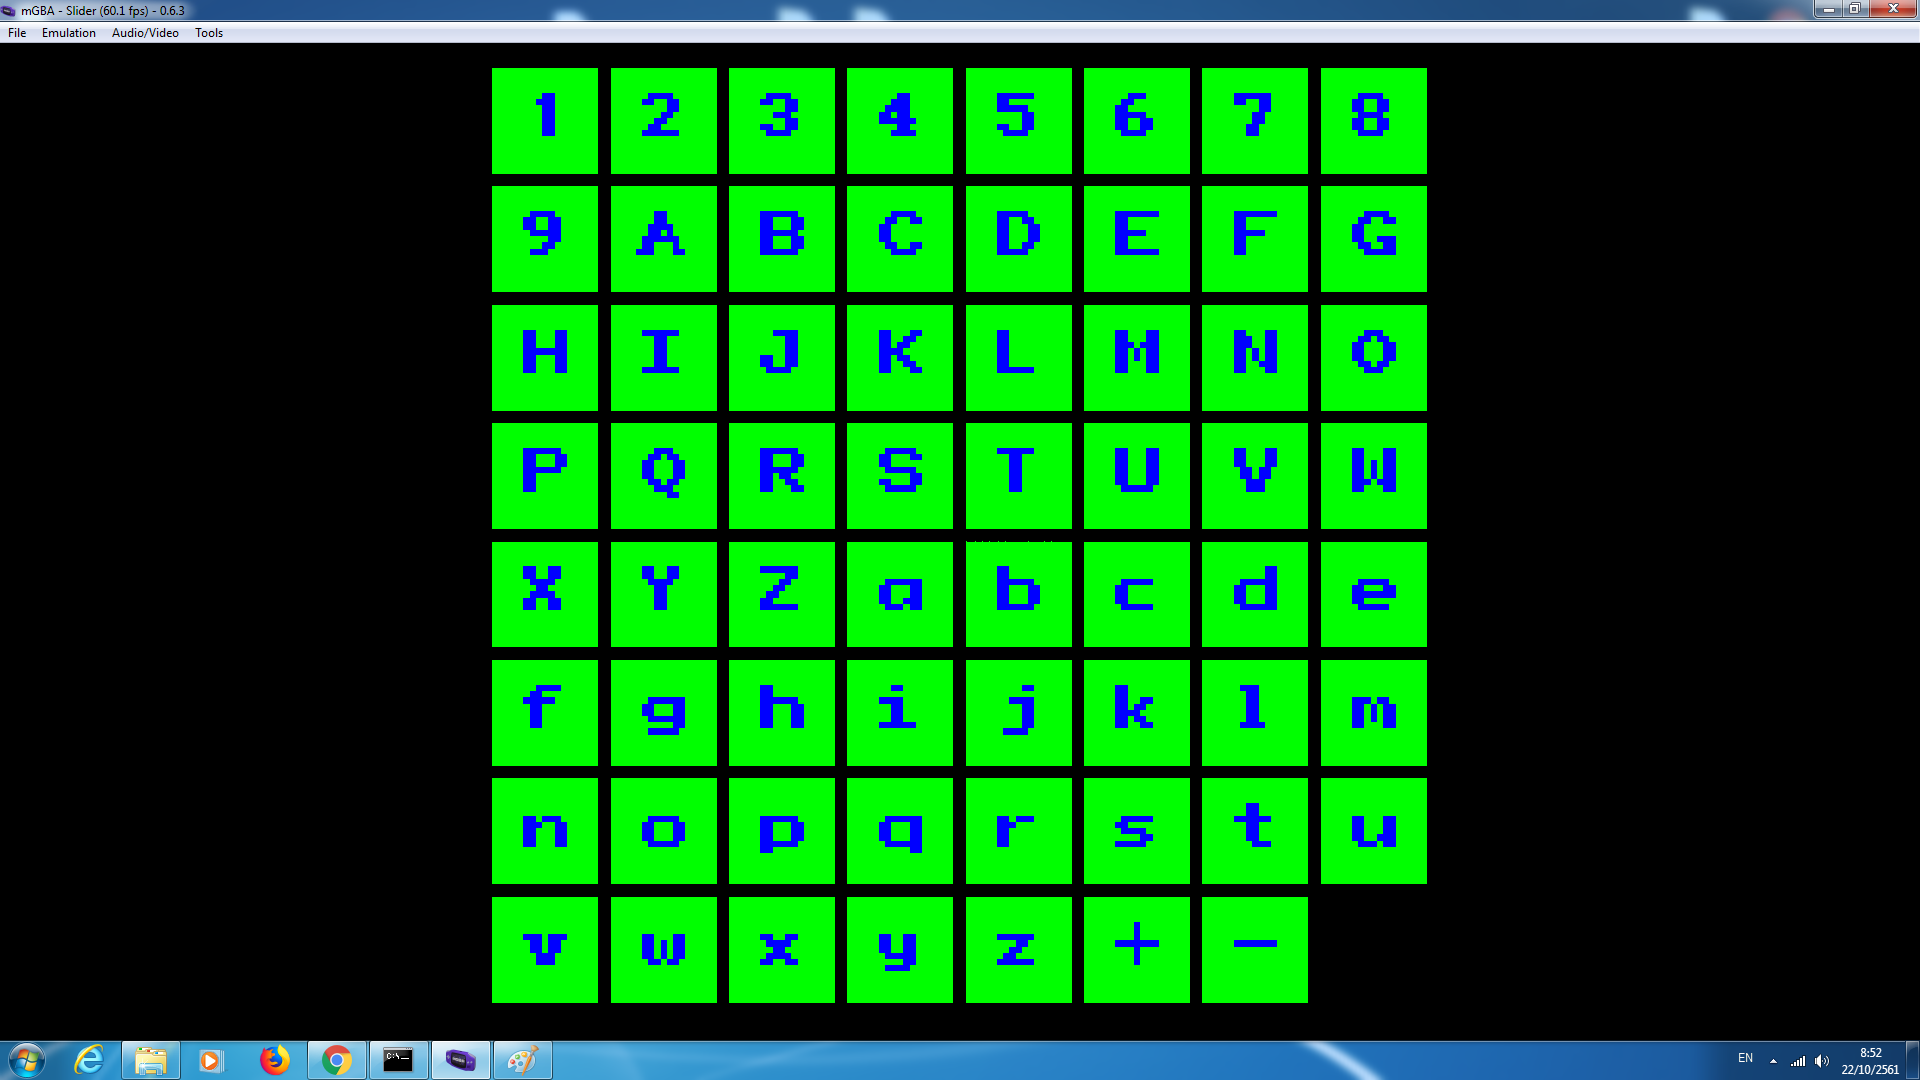
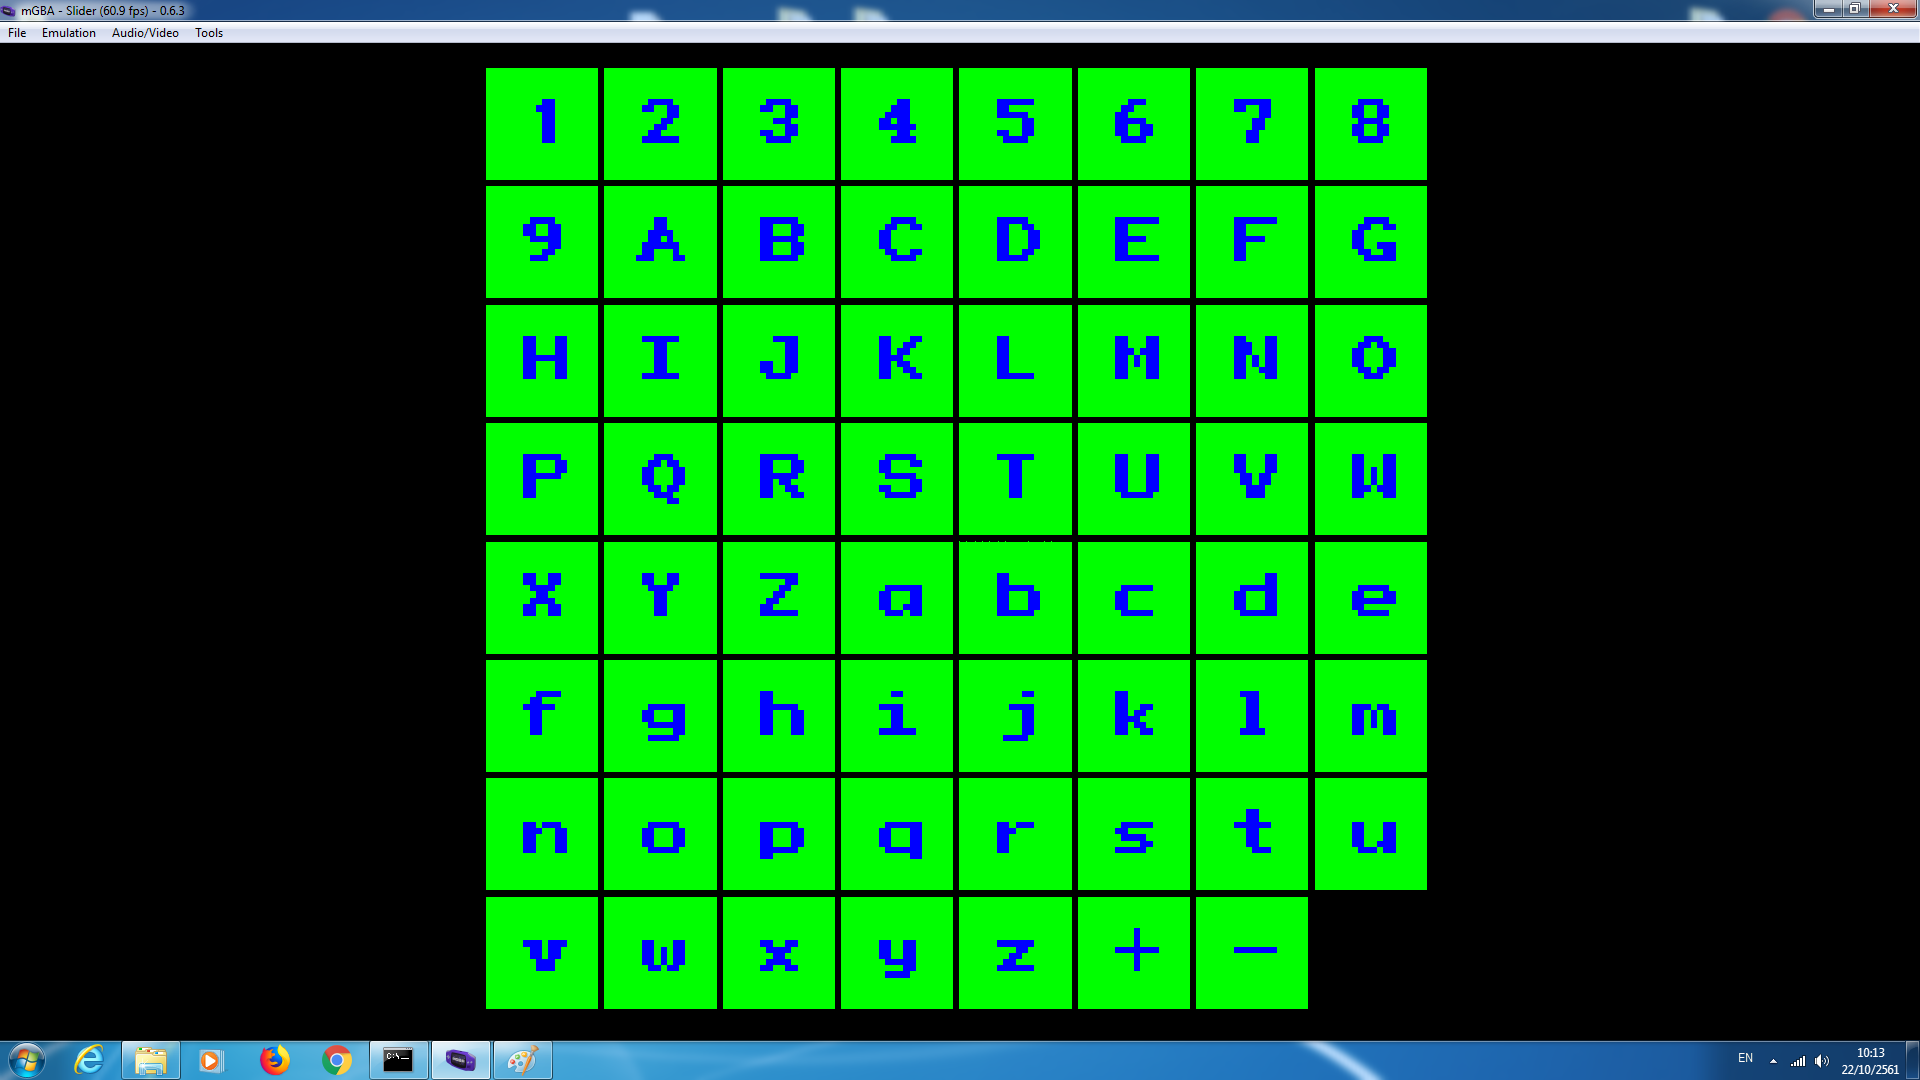
modified:   main.cpp 	modified:   res/complete-slider.png 	modified:   res/slider.png 	modified:   rom/slider-actual-GBA.gba 	modified:   rom/slider.gba

diff --git a/main.cpp b/main.cpp
@@ -39,7 +39,7 @@ static_assert(WxH*WxH==slen(sqlist)-1,"WxH*WxH !=slen(sqlist) => It's not square
 //********************** Graphic ***********************//
 #define FRGAP 4
 
-#define RGAP 2
+#define RGAP 1
 #define CGAP RGAP
 
 
